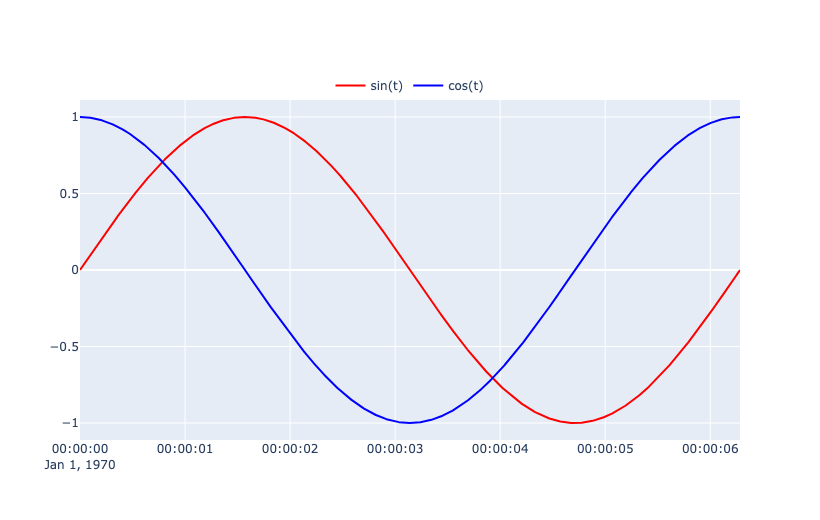
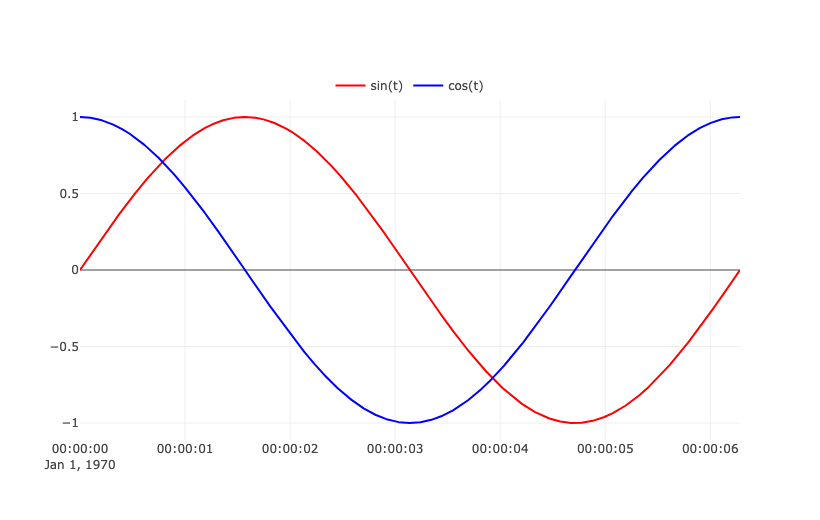
Default template is "none" (plotly.js defaults, as plotly 4.x)
Set default_template("plotly") or options(plotly.core.template = "plotly")
for plotly.py's look. README images re-rendered.

diff --git a/NEWS.md b/NEWS.md
@@ -38,7 +38,9 @@
   functions it uses (see `?"plotly.core-extending"`). plotly.py's colour
   sequences and scales are `plotly_colors`. plotly.core no longer imports
   data.table (#4).
-* `make_subplots()`, templates (`default_template()`, `register_template()`).
+* `make_subplots()`, templates (`default_template()`, `register_template()`);
+  figures use no template (`"none"`, plotly.js's own defaults) unless one is
+  set, as plotly 4.x does.
 * htmlwidget rendering: numeric arrays are sent as base64 typed arrays, arrays
   repeated in a figure are sent once, `as_float32()` sends data in single
   precision, and `partial_bundle()` loads a smaller plotly.js bundle.
